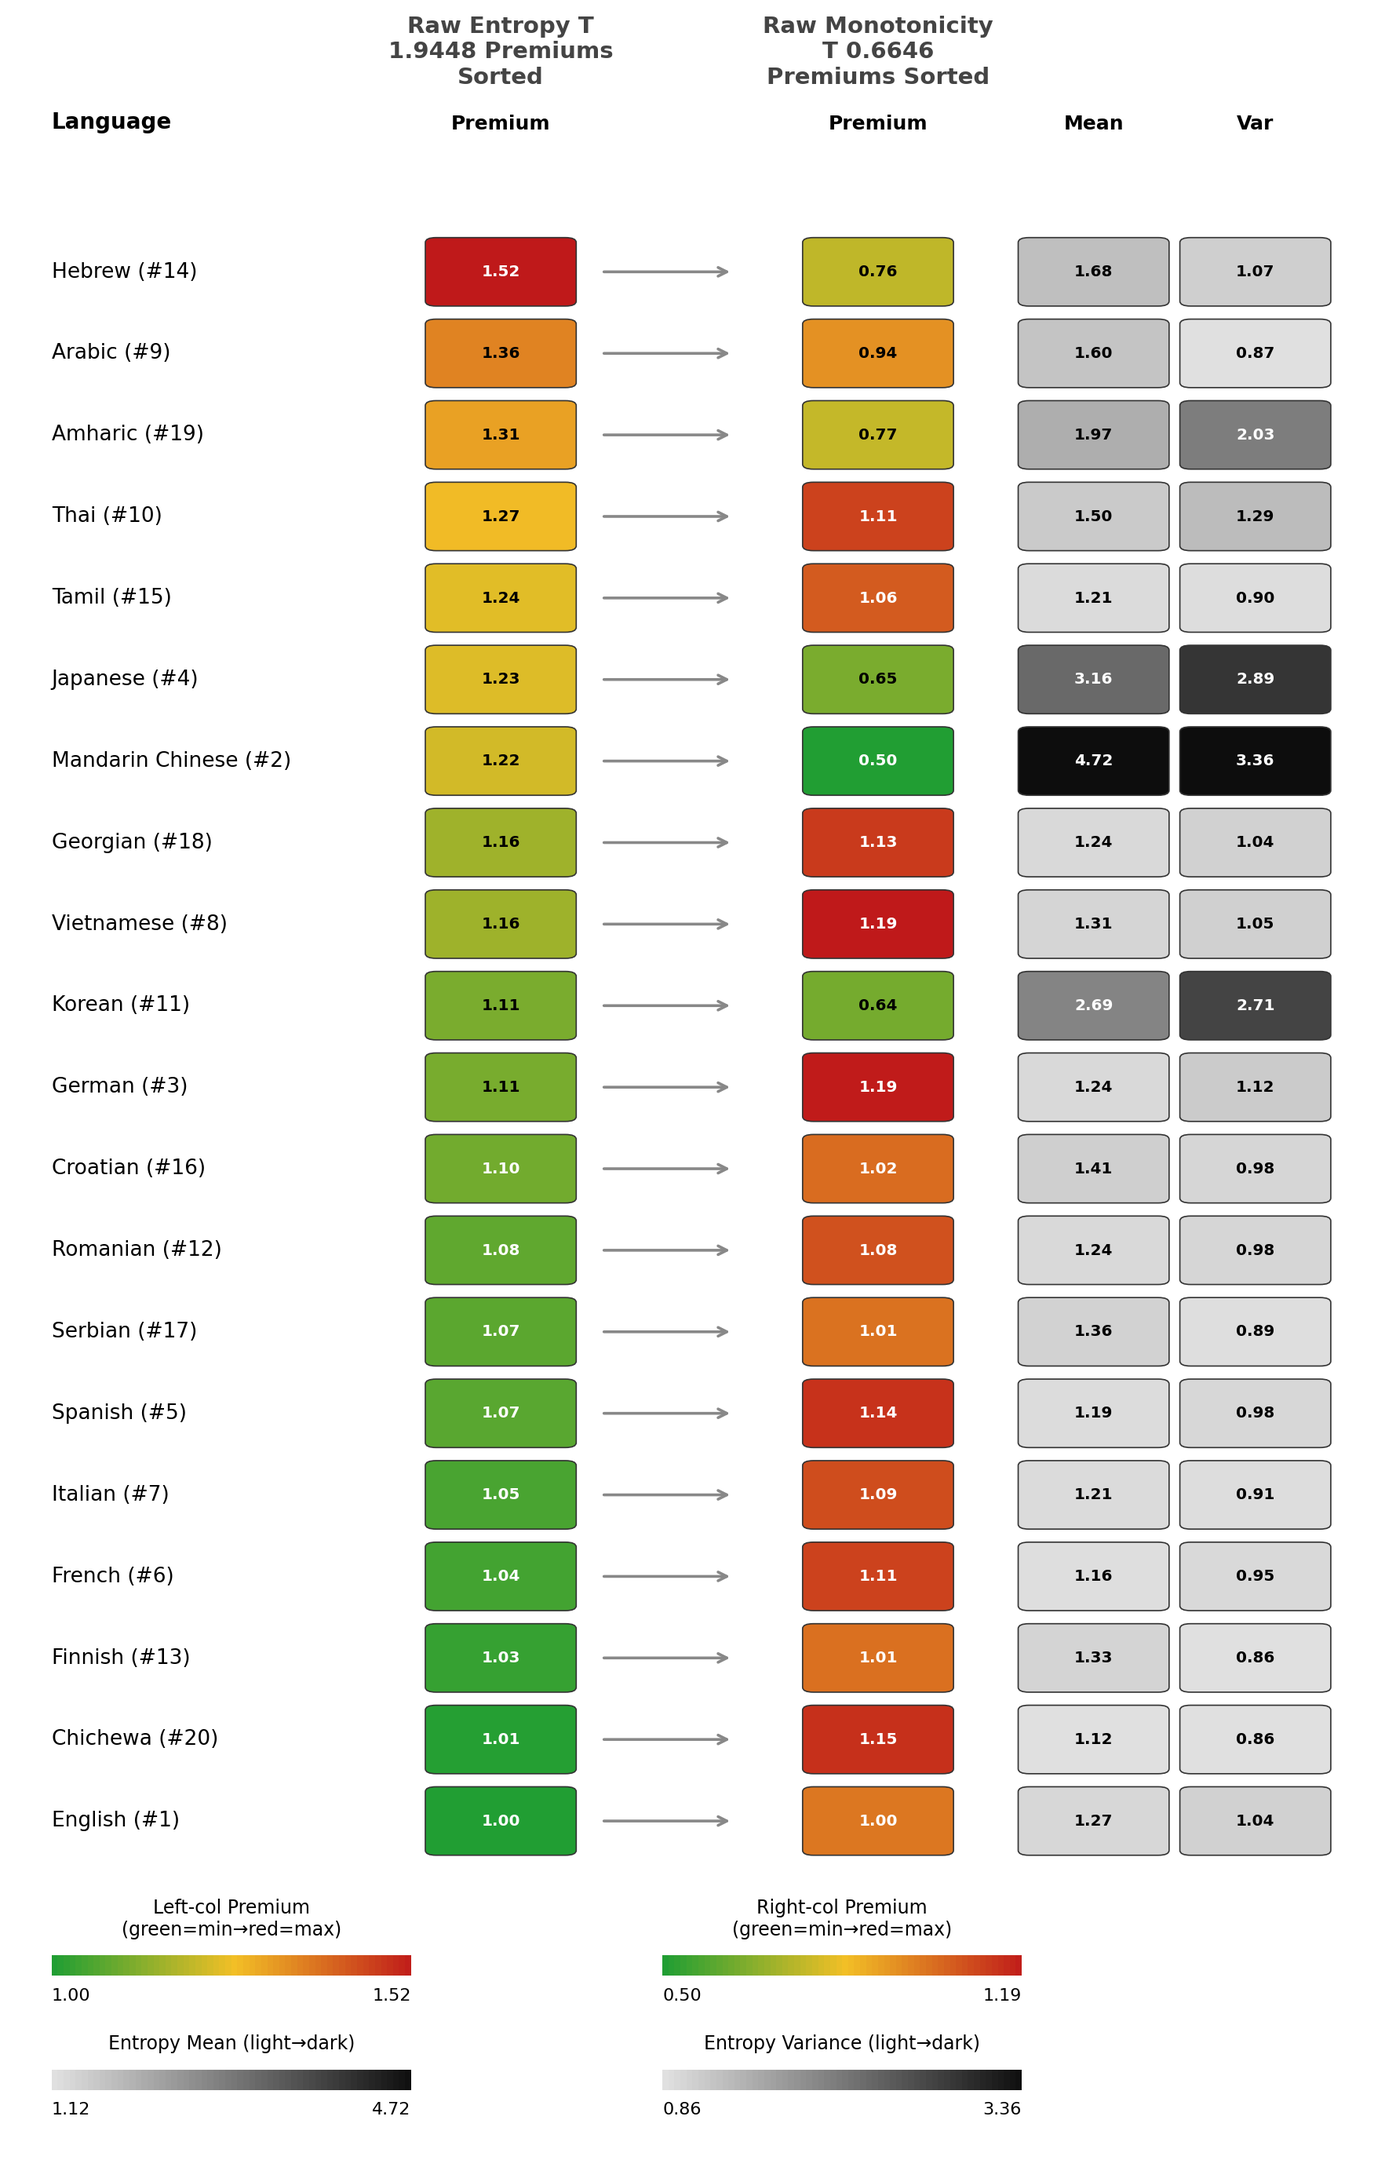
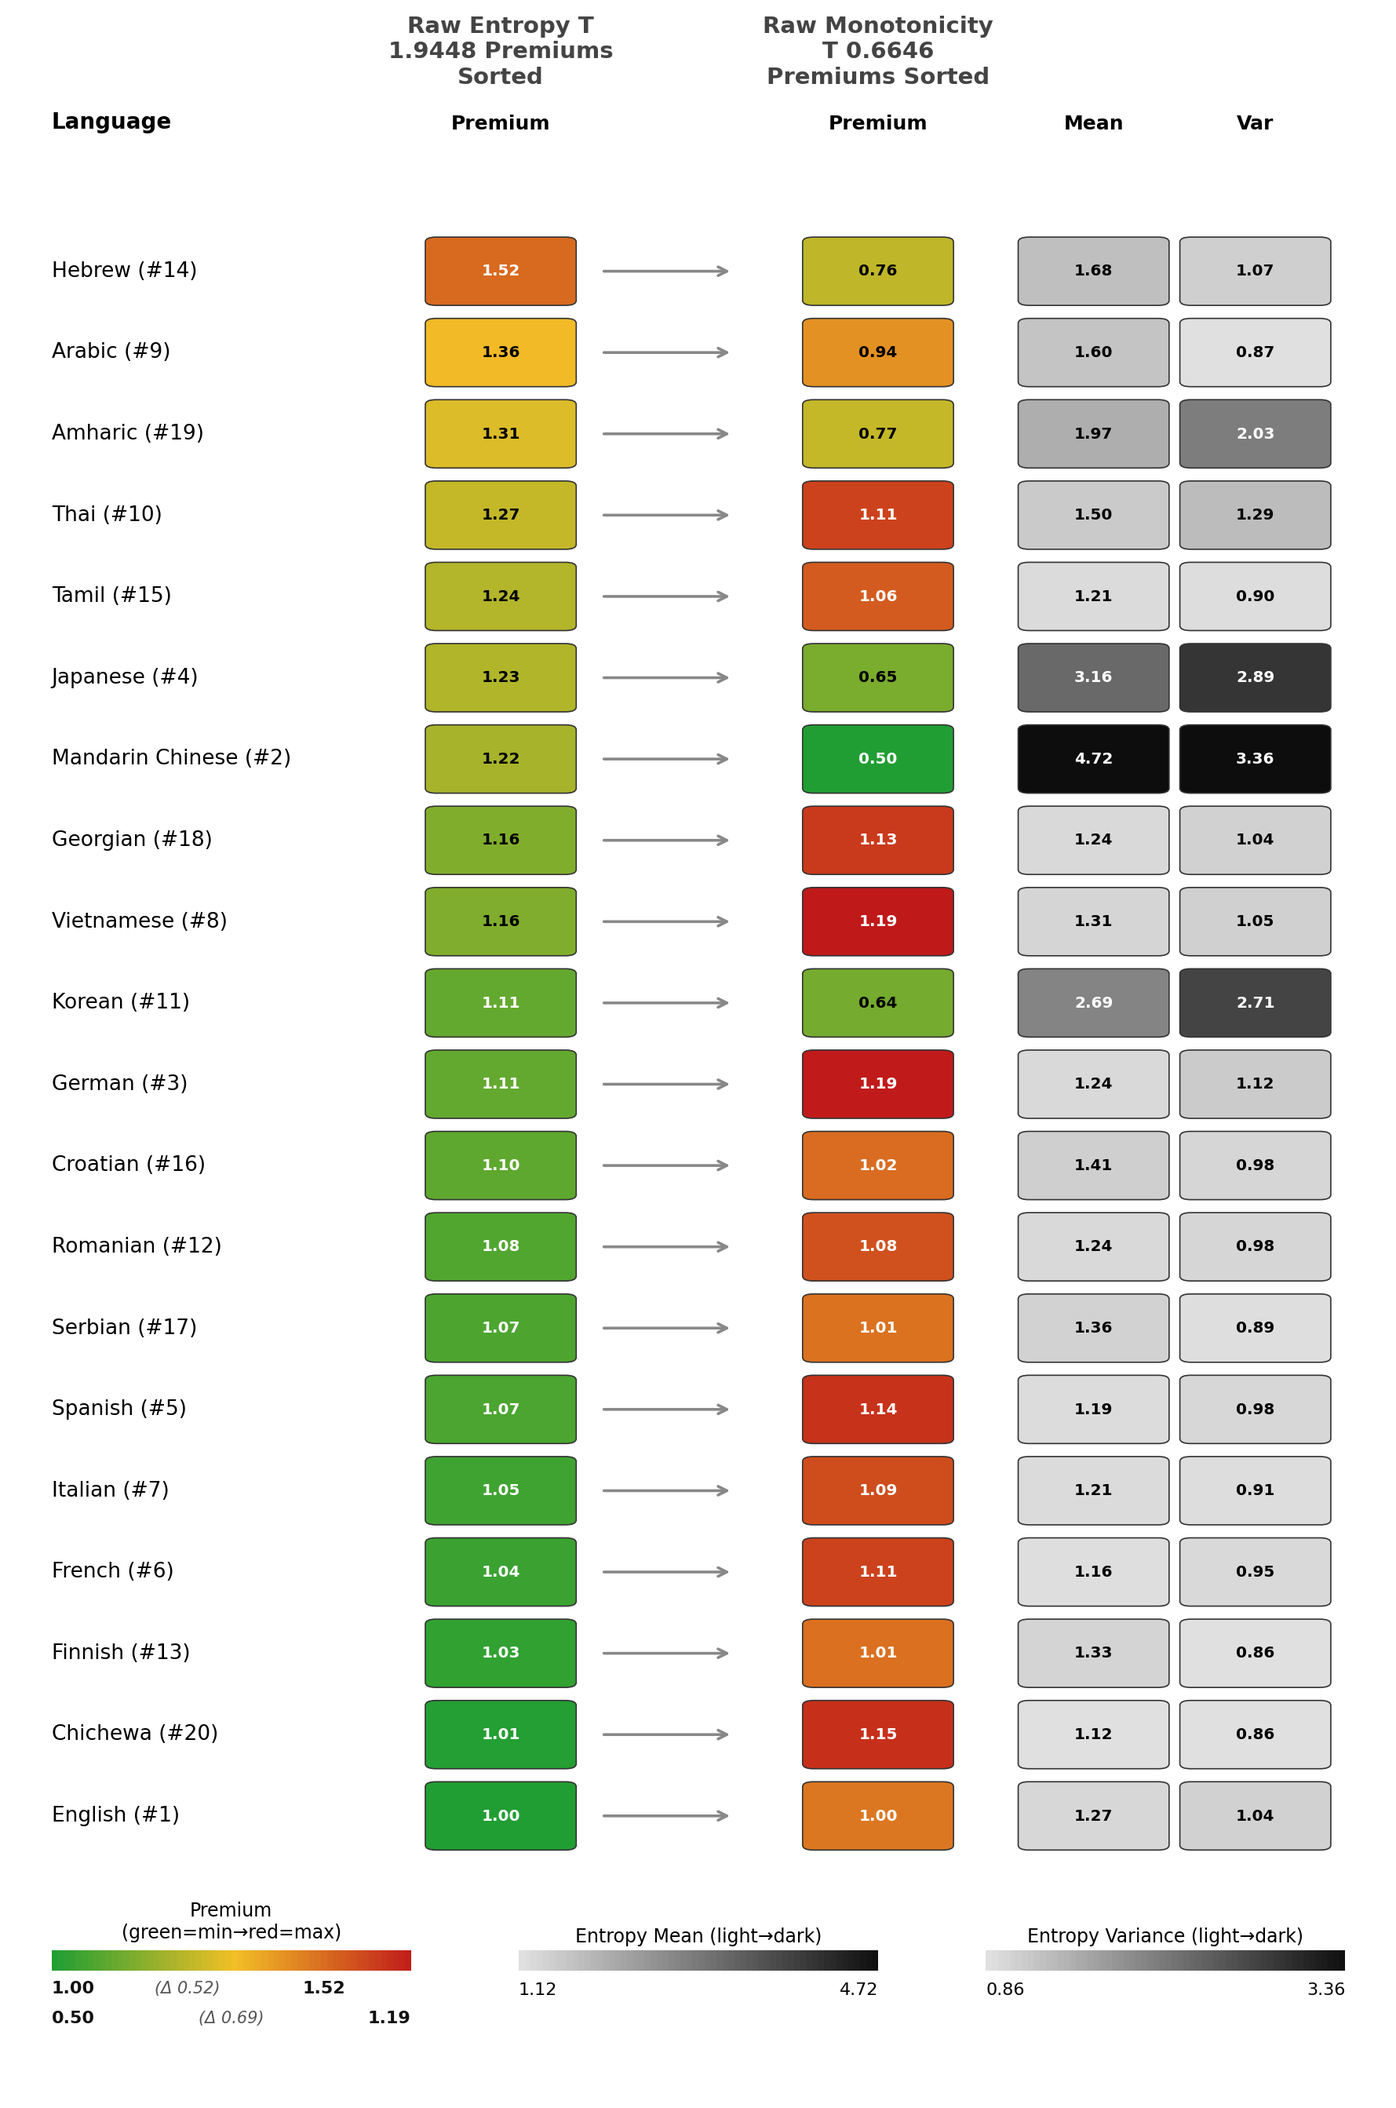
adjust scale once more

diff --git a/results/txt_premiums_to_chart_alternative.py b/results/txt_premiums_to_chart_alternative.py
@@ -10,8 +10,10 @@ Takes three input files:
 ...and visualizes how each language's "premium" changes between the two
 rankings, using color instead of raw numbers:
 
-  - Premium:              green (=min in that column) -> red (=max in that column)
-                          EACH COLUMN GETS ITS OWN SCALE (see note below).
+  - Premium:              green (=min) -> red (=max)
+                          Each column is plotted on a scale aligned by the larger span.
+                          Legend ticks are placed proportionally along the bar,
+                          including the delta span between min and max.
   - Entropy Mean / Var:   light grey (=min) -> black (=max, across both files)
                           (shown once per language - these don't change
                           between rankings)
@@ -20,58 +22,24 @@ Training-data volume isn't color-coded; instead each language's rank by
 training-data size (1 = most bytes) is shown in brackets next to its name,
 e.g. "English (#1)", "Mandarin Chinese (#2)".
 
-PREMIUM COLOR SCALE (per-column, not shared):
-    The two Premium columns each get their OWN green->red scale, based on
-    that column's own min/max, rather than a scale shared across both
-    columns. This matters because the two rankings can have different
-    minimums - e.g. under one ranking English's premium of 1.00 might be
-    the lowest value in that column (and should render as pure green),
-    while under the other ranking some other language dips below 1.00.
-    A shared scale would use the lower of the two columns' minimums for
-    BOTH columns, making a column's own true "best" value not render as
-    pure green. Scoping each column to its own range fixes that.
+PREMIUM COLOR SCALE:
+    - Evaluates colors using the larger span (max - min). Both columns evaluate
+      colors relative to their baseline across that span. The legend displays
+      both rows of ticks (with deltas) mapped proportionally along the bar.
 
 COLUMN ORDER (left to right):
     Language (full name, with training-data rank) | Premium -> Premium | Mean | Var
 
-Row order follows file 1's row order as-is (no re-sorting is done) - so
-whatever order your entropy-based ranking file is sorted in is what the
-chart displays top-to-bottom.
+Row order follows file 1's row order as-is (no re-sorting is done).
 
-Expected format for files 1 & 2 (same as before):
+Expected format for files 1 & 2:
 
     Language  Premium  PPS       BPP     EntropyMean  EntropyVar
     amh_Ethi  5.7097   186.6921  1.1733  2.7971       0.7736
     ...
-    # comment lines starting with '#' are ignored
-
-Expected format for file 3 (the training-data CSV): a header row plus one
-row per language. The script auto-detects:
-  - a language column: either a language-code column (values that look like
-    "eng_Latn") or a full-name column (values like "English") - if only
-    full names are present, they're mapped to codes using the built-in
-    LANG_NAME_TO_CODE table below (covers the 20 languages seen so far;
-    extend it if you add languages).
-  - a bytes column: any column whose (normalized) name contains
-    "imbalanced", "allocation" and "bytes" - falls back to any column
-    containing "bytes" if that exact combination isn't found.
-  Numbers may contain thousands-separator commas; those are stripped.
 
 USAGE
     python3 txt_premiums_to_chart_alternative.py <entropy_file> <monotonicity_file> [lang_data_csv]
-
-    lang_data_csv defaults to "training_setup/langs/langs_chosen.csv" if
-    omitted.
-
-The two ranking filenames must share the same prefix - the part of the
-filename before the first underscore, e.g.:
-
-    global_raw_entropy.txt   global_raw_monotonicity.txt
-    ^^^^^^                   ^^^^^^
-    (same prefix "global" -> output: global_premium_color_chart.png)
-
-The output chart is saved in the same directory as the two ranking files,
-named "<prefix>_premium_color_chart.png".
 
 Requires: matplotlib, numpy
     pip install matplotlib numpy
@@ -79,6 +47,7 @@ Requires: matplotlib, numpy
 
 import argparse
 import csv
+import math
 import os
 import re
 import sys
@@ -90,8 +59,6 @@ import matplotlib.pyplot as plt
 import matplotlib.patches as patches
 
 
-# Built-in language-name <-> code map. Extend this if you add languages
-# that aren't covered yet.
 LANG_NAME_TO_CODE = {
     "english": "eng_Latn",
     "mandarin chinese": "cmn_Hans",
@@ -134,10 +101,6 @@ CODE_PATTERN = re.compile(r"^[a-z]{3}_[A-Z][a-z]{3}$")
 # ---------------------------------------------------------------------------
 
 def parse_table(path):
-    """Parse a whitespace-separated premium table file into an ordered dict:
-    lang_code -> (premium, entropy_mean, entropy_var).
-    Skips blank lines, '#' comments, and the header row.
-    """
     data = {}
     header_seen = False
     with open(path, "r", encoding="utf-8") as f:
@@ -169,9 +132,6 @@ def _normalize_colname(name):
 
 
 def _find_column(fieldnames, keyword_sets):
-    """keyword_sets: list of tuples of keywords; returns first column whose
-    normalized name contains ALL keywords in the first tuple that matches,
-    trying tuples in order (most specific first)."""
     normed = {fn: _normalize_colname(fn) for fn in fieldnames}
     for keywords in keyword_sets:
         for fn, norm in normed.items():
@@ -181,9 +141,6 @@ def _find_column(fieldnames, keyword_sets):
 
 
 def parse_training_data(path):
-    """Parse the training-data CSV into an ordered dict:
-    lang_code -> imbalanced_allocation_bytes (float).
-    """
     with open(path, "r", encoding="utf-8", newline="") as f:
         reader = csv.DictReader(f)
         fieldnames = reader.fieldnames or []
@@ -198,12 +155,8 @@ def parse_training_data(path):
         ("bytes",),
     ])
     if bytes_col is None:
-        raise ValueError(
-            f"Could not find a bytes column in {path}. "
-            f"Available columns: {fieldnames}"
-        )
+        raise ValueError(f"Could not find a bytes column in {path}. Available columns: {fieldnames}")
 
-    # Prefer an explicit language-code column (values like 'eng_Latn').
     code_col = None
     for fn in fieldnames:
         sample_vals = [r[fn].strip() for r in rows[:5] if r.get(fn)]
@@ -215,10 +168,7 @@ def parse_training_data(path):
     if code_col is None:
         name_col = _find_column(fieldnames, [("language",), ("lang", "name")])
         if name_col is None:
-            raise ValueError(
-                f"Could not find a language-code or language-name column in "
-                f"{path}. Available columns: {fieldnames}"
-            )
+            raise ValueError(f"Could not find a language column in {path}. Available columns: {fieldnames}")
 
     data = {}
     unmapped = []
@@ -242,8 +192,7 @@ def parse_training_data(path):
         data[code] = n_bytes
 
     if unmapped:
-        print(f"Warning: no code mapping for language name(s) {unmapped} in "
-              f"{path}; add them to LANG_NAME_TO_CODE. Skipped.", file=sys.stderr)
+        print(f"Warning: no code mapping for language name(s) {unmapped} in {path}. Skipped.", file=sys.stderr)
     if not data:
         raise ValueError(f"No usable training-data rows parsed from {path}")
     return data
@@ -255,9 +204,6 @@ def get_prefix(path):
 
 
 def get_label(path):
-    """Human-readable label for the column header, derived from the part
-    of the filename after the prefix, e.g. 'global_raw_entropy.txt' ->
-    'Raw Entropy'."""
     stem = os.path.splitext(os.path.basename(path))[0]
     parts = stem.split("_")[1:]
     if not parts:
@@ -265,22 +211,11 @@ def get_label(path):
     return " ".join(p.capitalize() for p in parts)
 
 
-def format_bytes(v):
-    if v >= 1e9:
-        return f"{v / 1e9:.2f}B"
-    if v >= 1e6:
-        return f"{v / 1e6:.1f}M"
-    if v >= 1e3:
-        return f"{v / 1e3:.1f}K"
-    return f"{v:.0f}"
-
-
 # ---------------------------------------------------------------------------
 # 2. COLOR SCALES
 # ---------------------------------------------------------------------------
 
 def green_red_gradient(t):
-    """t=0 -> green, t=0.5 -> yellow, t=1 -> red."""
     t = np.clip(t, 0, 1)
     if t < 0.5:
         tt = t / 0.5
@@ -296,13 +231,11 @@ def green_red_gradient(t):
 
 
 def premium_color(p, p_min, p_max):
-    """Low premium (column min) = green, high premium (column max) = red."""
     t = (p - p_min) / (p_max - p_min) if p_max > p_min else 0
     return green_red_gradient(t)
 
 
 def grey_color(v, vmin, vmax):
-    """Light grey (low) -> black (high)."""
     t = np.clip((v - vmin) / (vmax - vmin), 0, 1) if vmax > vmin else 0
     g = 0.88 - t * (0.88 - 0.05)
     return (g, g, g)
@@ -322,16 +255,13 @@ def draw_chart(table1, table2, training_data, label1, label2, out_path):
 
     missing2 = [l for l in langs if l not in table2]
     if missing2:
-        print(f"Warning: {missing2} present in '{label1}' file but missing "
-              f"from '{label2}' file; skipped.", file=sys.stderr)
+        print(f"Warning: {missing2} present in '{label1}' file but missing from '{label2}' file; skipped.", file=sys.stderr)
         langs = [l for l in langs if l in table2]
 
     missing_td = [l for l in langs if l not in training_data]
     if missing_td:
-        print(f"Warning: no training-data entry for {missing_td}; "
-              f"no rank shown for these.", file=sys.stderr)
+        print(f"Warning: no training-data entry for {missing_td}; no rank shown for these.", file=sys.stderr)
 
-    # rank languages by training-data size, most bytes = rank #1
     rank_by_lang = {
         lang: i + 1
         for i, (lang, _) in enumerate(
@@ -342,18 +272,31 @@ def draw_chart(table1, table2, training_data, label1, label2, out_path):
     all_means = [table1[l][1] for l in langs] + [table2[l][1] for l in langs]
     all_vars = [table1[l][2] for l in langs] + [table2[l][2] for l in langs]
 
-    # Premium: separate scale PER COLUMN (see module docstring). table1's
-    # own min/max drives the left Premium column's color; table2's own
-    # min/max drives the right one. NOT shared across both columns.
     p1_vals = [table1[l][0] for l in langs]
     p2_vals = [table2[l][0] for l in langs]
     p1_min, p1_max = min(p1_vals), max(p1_vals)
     p2_min, p2_max = min(p2_vals), max(p2_vals)
 
+    mins_equal = math.isclose(p1_min, p2_min, rel_tol=1e-9, abs_tol=1e-6)
+
+    if mins_equal:
+        shared_min = p1_min
+        shared_max = max(p1_max, p2_max)
+        scale1_min, scale1_max = shared_min, shared_max
+        scale2_min, scale2_max = shared_min, shared_max
+    else:
+        span1 = p1_max - p1_min
+        span2 = p2_max - p2_min
+        if span1 >= span2:
+            scale1_min, scale1_max = p1_min, p1_max
+            scale2_min, scale2_max = p2_min, p2_min + span1
+        else:
+            scale1_min, scale1_max = p1_min, p1_min + span2
+            scale2_min, scale2_max = p2_min, p2_max
+
     m_min, m_max = min(all_means), max(all_means)
     v_min, v_max = min(all_vars), max(all_vars)
 
-    # Wrap long group-title labels so they don't overlap each other.
     wrap_width = 16
     label1_wrapped = textwrap.fill(label1, wrap_width)
     label2_wrapped = textwrap.fill(label2, wrap_width)
@@ -362,15 +305,14 @@ def draw_chart(table1, table2, training_data, label1, label2, out_path):
     extra_top = header_line_h * (title_lines - 1)
 
     n = len(langs)
-    fig_h = n * 0.5 + 3.2 + extra_top   # +3.2 to fit the 2-row legend below
+    fig_h = n * 0.5 + 2.8 + extra_top
     fig, ax = plt.subplots(figsize=(9, fig_h))
     ax.set_xlim(0, 7.6)
-    ax.set_ylim(-3.4, n + 1.5 + extra_top)
+    ax.set_ylim(-2.7, n + 1.5 + extra_top)
     ax.axis("off")
 
     sq = 0.8
 
-    # column order: Language (name + training-data rank) | Premium -> Premium | Mean | Var
     x_lang = 0.2
     x1_p = 2.3
     x_arrow = 3.4
@@ -413,15 +355,15 @@ def draw_chart(table1, table2, training_data, label1, label2, out_path):
 
         ax.text(x_lang, y + sq / 2, lang_label, fontsize=9.5, va="center", fontweight="medium")
 
-        draw_square(x1_p, y, premium_color(p1, p1_min, p1_max), p1)
+        draw_square(x1_p, y, premium_color(p1, scale1_min, scale1_max), p1)
         ax.annotate("", xy=(x_arrow + 0.6, y + sq / 2), xytext=(x_arrow - 0.15, y + sq / 2),
                     arrowprops=dict(arrowstyle="->", color="#888888", lw=1.3))
-        draw_square(x2_p, y, premium_color(p2, p2_min, p2_max), p2)
+        draw_square(x2_p, y, premium_color(p2, scale2_min, scale2_max), p2)
 
         draw_square(x_mean, y, grey_color(mean, m_min, m_max), mean)
         draw_square(x_var, y, grey_color(var, v_min, v_max), var)
 
-    # ---- legend (2 rows: premium x2 on top, mean/var below) ----
+    # ---- LEGEND RENDERING ----
     grad_w = 2.0
     n_steps = 60
 
@@ -437,20 +379,66 @@ def draw_chart(table1, table2, training_data, label1, label2, out_path):
             ))
         ax.text(x0, y0 - 0.3, label_formatter(vmin), fontsize=8, ha="left")
         ax.text(x0 + grad_w, y0 - 0.3, label_formatter(vmax), fontsize=8, ha="right")
-        ax.text(x0 + grad_w / 2, y0 + 0.5, label, fontsize=8.5, ha="center",
-                multialignment="center")
+        ax.text(x0 + grad_w / 2, y0 + 0.35, label, fontsize=8.5, ha="center", multialignment="center")
 
-    row1_y, row2_y = -1.2, -2.6
-    draw_gradient_legend(0.2, row1_y, p1_min, p1_max,
-                          lambda v: premium_color(v, p1_min, p1_max),
-                          "Left-col Premium\n(green=min\u2192red=max)")
-    draw_gradient_legend(3.6, row1_y, p2_min, p2_max,
-                          lambda v: premium_color(v, p2_min, p2_max),
-                          "Right-col Premium\n(green=min\u2192red=max)")
-    draw_gradient_legend(0.2, row2_y, m_min, m_max,
+    def draw_premium_legend(x0, y0, c1_min, c1_max, s1_min, s1_max, c2_min, c2_max, s2_min, s2_max):
+        for k in range(n_steps):
+            t0 = k / n_steps
+            color = green_red_gradient(t0)
+            ax.add_patch(patches.Rectangle(
+                (x0 + t0 * grad_w, y0), grad_w / n_steps + 0.001, 0.25,
+                color=color, linewidth=0,
+            ))
+        ax.text(x0 + grad_w / 2, y0 + 0.35, "Premium\n(green=min\u2192red=max)",
+                fontsize=8.5, ha="center", va="bottom", multialignment="center")
+
+        def place_tick(val, ref_min, ref_max, y_offset):
+            rel_pos = np.clip((val - ref_min) / (ref_max - ref_min), 0, 1) if ref_max > ref_min else 0
+            x_pos = x0 + rel_pos * grad_w
+            
+            if rel_pos < 0.1:
+                ha = "left"
+            elif rel_pos > 0.9:
+                ha = "right"
+            else:
+                ha = "center"
+                
+            ax.text(x_pos, y0 + y_offset, f"{val:.2f}", fontsize=8, ha=ha, color="#111111", fontweight="semibold")
+
+        def place_span(c_min, c_max, ref_min, ref_max, y_offset):
+            rel_min = np.clip((c_min - ref_min) / (ref_max - ref_min), 0, 1) if ref_max > ref_min else 0
+            rel_max = np.clip((c_max - ref_min) / (ref_max - ref_min), 0, 1) if ref_max > ref_min else 0
+            
+            span_rel = rel_max - rel_min
+            delta = c_max - c_min
+
+            # If the span is too narrow (< 35% of bar width), place delta text to the right of max
+            if span_rel < 0.35:
+                pos_x = x0 + rel_max * grad_w + 0.28
+                ha = "left"
+            else:
+                pos_x = x0 + ((rel_min + rel_max) / 2.0) * grad_w
+                ha = "center"
+
+            ax.text(pos_x, y0 + y_offset, f"(\u0394 {delta:.2f})", fontsize=7.5, ha=ha, color="#555555", fontstyle="italic")
+
+        # Column 1 Row
+        place_tick(c1_min, s1_min, s1_max, -0.28)
+        place_span(c1_min, c1_max, s1_min, s1_max, -0.28)
+        place_tick(c1_max, s1_min, s1_max, -0.28)
+
+        # Column 2 Row — Always shown
+        place_tick(c2_min, s2_min, s2_max, -0.65)
+        place_span(c2_min, c2_max, s2_min, s2_max, -0.65)
+        place_tick(c2_max, s2_min, s2_max, -0.65)
+
+    leg_y = -1.2
+    draw_premium_legend(0.2, leg_y, p1_min, p1_max, scale1_min, scale1_max, p2_min, p2_max, scale2_min, scale2_max)
+
+    draw_gradient_legend(2.8, leg_y, m_min, m_max,
                           lambda v: grey_color(v, m_min, m_max),
                           "Entropy Mean (light\u2192dark)")
-    draw_gradient_legend(3.6, row2_y, v_min, v_max,
+    draw_gradient_legend(5.4, leg_y, v_min, v_max,
                           lambda v: grey_color(v, v_min, v_max),
                           "Entropy Variance (light\u2192dark)")
 
